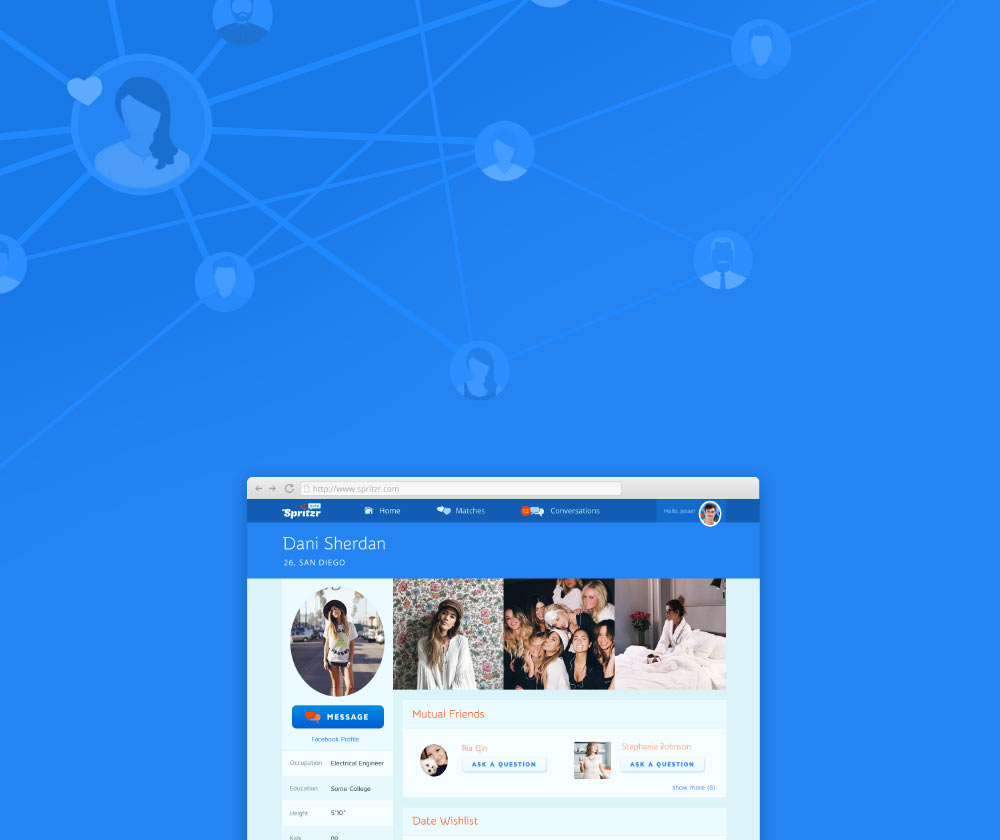
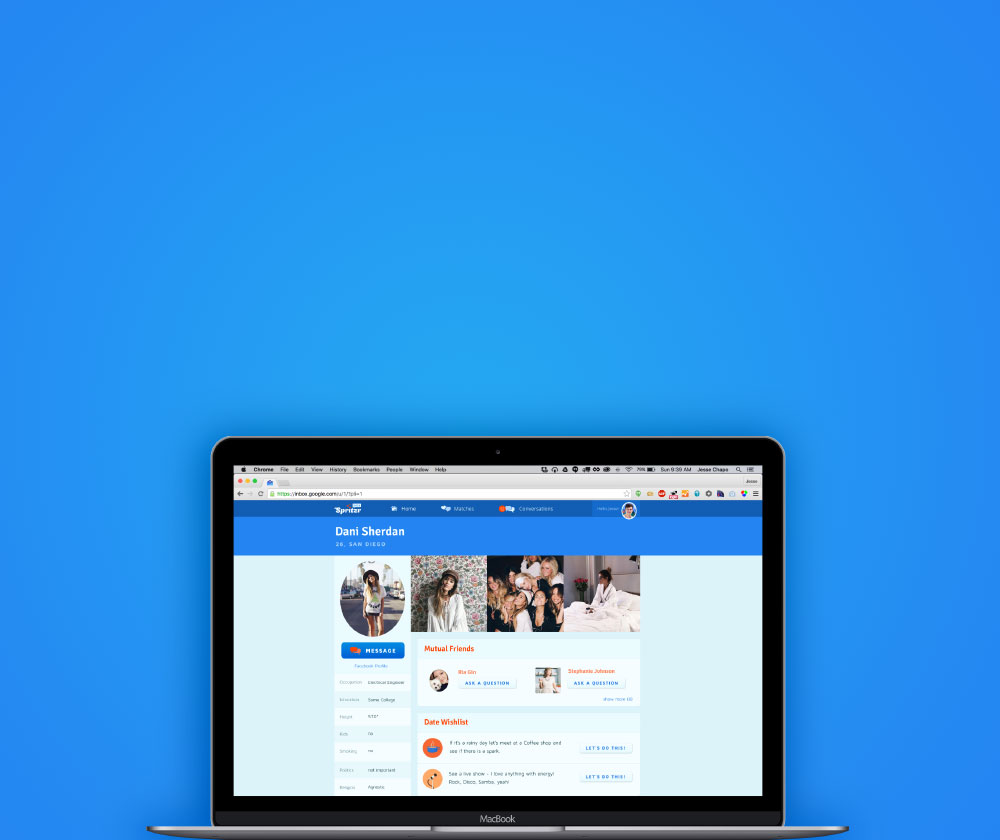
cleaner look to the spritzr cover/page.

diff --git a/source/stylesheets/views/_spritzr.scss b/source/stylesheets/views/_spritzr.scss
@@ -29,7 +29,6 @@ body.spritzr {
 
   .work-description {
     color: $spritzrLapis3;
-    text-shadow: 0px 1px 0px rgba($spritzrLapis1, 1);
   }
 
   a, h5 {
@@ -76,7 +75,8 @@ body.spritzr {
 
 .spritzr-blue-section {
   background-color: $spritzrLapis2;
-  
+  @include background-image(radial-gradient(50% 25%, circle closest-corner, #24a7f2 0%, #2484f2 100%));
+
   p {
     color: $spritzrWhite2;
   }
@@ -84,15 +84,6 @@ body.spritzr {
   h3, .caption {
     color: $spritzrWhite1;
   }
-}
-
-.spritzr-corner-graphic {
-  @extend .spritzr-blue-section;
-  background-color: $spritzrLapis2;
-  background-image: url('/images/spritzr/spritzr-corner-graphic.jpg');
-  background-repeat: no-repeat;
-  background-position: top left;
-  background-size: contain;
 }
 
 .spritzr-wireframes {

diff --git a/source/stylesheets/views/_case-studies.scss b/source/stylesheets/views/_case-studies.scss
@@ -27,14 +27,18 @@
 
 @include at-least($phone-wide) {
 
-  h1 {
-    margin-top:  rem($baseline * 2.5); 
+  .case-study {
+    h1 {
+      margin-top:  rem($baseline * 2.5); 
+    }
   }
 }
 
 @include at-least($tablet) {
 
-  h1 {
-    margin-top:  rem($baseline * 3.5); 
+  .case-study {
+    h1 {
+      margin-top:  rem($baseline * 3.5); 
+    }
   }
 }
